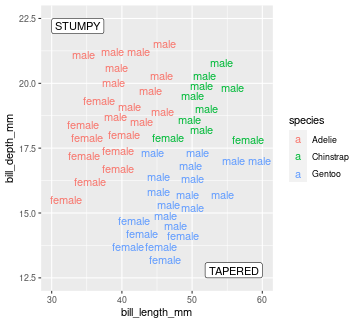
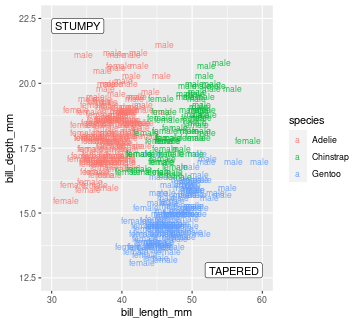
Reduce germane load

diff --git a/index.html b/index.html
@@ -213,7 +213,7 @@ class: inverse
   and how they are related/managed by `{ggplot2}`.
 
 3. **Apply** examples of different types of labeling a plot using:
-  - `geom_text()`, `geom_label()`
+  - `geom_text(alpha = 0.9, size = 3)`, `geom_label()`
   - `scale_*_*()`, `labs()` (for `facet_*` too)
   - `annotate()`
   - `theme()` (ones involving `element_text()` only)
@@ -270,7 +270,7 @@ You will be asked to explore it one stage at time.
 
 &lt;br&gt;&lt;br&gt;&lt;br&gt;
 
-<div class="countdown" id="timer_5f5e3999" style="bottom:35%;left:34%;" data-audio="true" data-warnwhen="10">
+<div class="countdown" id="timer_5f5e5745" style="bottom:35%;left:34%;" data-audio="true" data-warnwhen="10">
 <code class="countdown-time"><span class="countdown-digits minutes">02</span><span class="countdown-digits colon">:</span><span class="countdown-digits seconds">00</span></code>
 </div>
 
@@ -383,7 +383,7 @@ Return to the [**TUTORIAL**](https://corradolanera.shinyapps.io/text-gg-checks/#
 
 &lt;br&gt;&lt;br&gt;&lt;br&gt;
 
-<div class="countdown" id="timer_5f5e39d3" style="bottom:35%;left:34%;" data-audio="true" data-warnwhen="10">
+<div class="countdown" id="timer_5f5e55ec" style="bottom:35%;left:34%;" data-audio="true" data-warnwhen="10">
 <code class="countdown-time"><span class="countdown-digits minutes">01</span><span class="countdown-digits colon">:</span><span class="countdown-digits seconds">00</span></code>
 </div>
 
@@ -425,7 +425,7 @@ penguins %&gt;%
   ggplot(aes(x = bill_length_mm, y = bill_depth_mm,
     label = sex,
     colour = species)) +
-* geom_text(check_overlap = TRUE)
+* geom_text(alpha = 0.9, size = 3)
 ```
 ]
 
@@ -448,7 +448,7 @@ Return to the [**TUTORIAL**](https://corradolanera.shinyapps.io/text-gg-checks/#
 
 &lt;br&gt;&lt;br&gt;&lt;br&gt;
 
-<div class="countdown" id="timer_5f5e3923" style="bottom:35%;left:34%;" data-audio="true" data-warnwhen="10">
+<div class="countdown" id="timer_5f5e5752" style="bottom:35%;left:34%;" data-audio="true" data-warnwhen="10">
 <code class="countdown-time"><span class="countdown-digits minutes">01</span><span class="countdown-digits colon">:</span><span class="countdown-digits seconds">00</span></code>
 </div>
 
@@ -488,7 +488,7 @@ penguins %&gt;%
   ggplot(aes(x = bill_length_mm, y = bill_depth_mm,
     label = sex,
     colour = species)) +
-  geom_text(check_overlap = TRUE) +
+  geom_text(alpha = 0.9, size = 3) +
 * annotate("label", x = 30, y = 22.5, label = "STUMPY",
            hjust = "inward", vjust = "inward") +
 * annotate("label", x = 60, y = 12.5, label = "TAPERED",
@@ -516,7 +516,7 @@ Return to the [**TUTORIAL**](https://corradolanera.shinyapps.io/text-gg-checks/#
 
 &lt;br&gt;&lt;br&gt;&lt;br&gt;
 
-<div class="countdown" id="timer_5f5e3a56" style="bottom:35%;left:34%;" data-audio="true" data-warnwhen="10">
+<div class="countdown" id="timer_5f5e5693" style="bottom:35%;left:34%;" data-audio="true" data-warnwhen="10">
 <code class="countdown-time"><span class="countdown-digits minutes">01</span><span class="countdown-digits colon">:</span><span class="countdown-digits seconds">00</span></code>
 </div>
 
@@ -561,7 +561,7 @@ penguins %&gt;%
   ggplot(aes(x = bill_length_mm, y = bill_depth_mm,
     label = sex,
     colour = species)) +
-  geom_text(check_overlap = TRUE) +
+  geom_text(alpha = 0.9, size = 3) +
   annotate("label", x = 30, y = 22.5, label = "STUMPY",
            hjust = "inward", vjust = "inward") +
   annotate("label", x = 60, y = 12.5, label = "TAPERED",
@@ -570,9 +570,9 @@ penguins %&gt;%
 *   labels = scales::label_number(suffix = " cm")) +
 * scale_y_continuous("Bill depth",
 *   labels = scales::label_number(suffix = " cm")) +
-  scale_colour_manual(
-    values = c("#C55ACA", "#0E7274", "#FF6F04"),
-    breaks = c("Chinstrap", "Gentoo", "Adelie"),
+* scale_colour_manual(
+*   values = c("#C55ACA", "#0E7274", "#FF6F04"),
+*   breaks = c("Chinstrap", "Gentoo", "Adelie"),
 *   labels = c("CHINSTRAP", "GENTOO", "ADÉLIE")) +
 * labs(title = "Penguins' bills across islands",
 *      caption = "Data from {palmerpenguins} package.",
@@ -601,7 +601,7 @@ Return to the [**TUTORIAL**](https://corradolanera.shinyapps.io/text-gg-checks/#
 
 &lt;br&gt;&lt;br&gt;&lt;br&gt;
 
-<div class="countdown" id="timer_5f5e381f" style="bottom:35%;left:34%;" data-audio="true" data-warnwhen="10">
+<div class="countdown" id="timer_5f5e55c7" style="bottom:35%;left:34%;" data-audio="true" data-warnwhen="10">
 <code class="countdown-time"><span class="countdown-digits minutes">01</span><span class="countdown-digits colon">:</span><span class="countdown-digits seconds">00</span></code>
 </div>
 
@@ -644,7 +644,7 @@ penguins %&gt;%
   ggplot(aes(x = bill_length_mm, y = bill_depth_mm,
     label = sex,
     colour = species)) +
-  geom_text(check_overlap = TRUE) +
+  geom_text(alpha = 0.9, size = 3) +
   annotate("label", x = 30, y = 22.5, label = "STUMPY",
            hjust = "inward", vjust = "inward") +
   annotate("label", x = 60, y = 12.5, label = "TAPERED",
@@ -686,7 +686,7 @@ Return to the [**TUTORIAL**](https://corradolanera.shinyapps.io/text-gg-checks/#
 
 &lt;br&gt;&lt;br&gt;&lt;br&gt;
 
-<div class="countdown" id="timer_5f5e397c" style="bottom:35%;left:34%;" data-audio="true" data-warnwhen="10">
+<div class="countdown" id="timer_5f5e5654" style="bottom:35%;left:34%;" data-audio="true" data-warnwhen="10">
 <code class="countdown-time"><span class="countdown-digits minutes">02</span><span class="countdown-digits colon">:</span><span class="countdown-digits seconds">00</span></code>
 </div>
 
@@ -729,7 +729,7 @@ penguins %&gt;%
   ggplot(aes(x = bill_length_mm, y = bill_depth_mm,
     label = sex,
     colour = species)) +
-  geom_text(check_overlap = TRUE) +
+  geom_text(alpha = 0.9, size = 3) +
   annotate("label", x = 30, y = 22.5, label = "STUMPY",
            hjust = "inward", vjust = "inward") +
   annotate("label", x = 60, y = 12.5, label = "TAPERED",
@@ -764,7 +764,7 @@ class: inverse, middle, center
 Click [HERE](https://corradolanera.shinyapps.io/text-gg-checks/#section-final-test)
 to test your brand-new skills in managing text in `ggplot()`s, and the efficacy of this class too ;-)
 
-<div class="countdown" id="timer_5f5e3869" style="bottom:35%;left:34%;" data-audio="true" data-warnwhen="180">
+<div class="countdown" id="timer_5f5e54b7" style="bottom:35%;left:34%;" data-audio="true" data-warnwhen="180">
 <code class="countdown-time"><span class="countdown-digits minutes">15</span><span class="countdown-digits colon">:</span><span class="countdown-digits seconds">00</span></code>
 </div>
 
